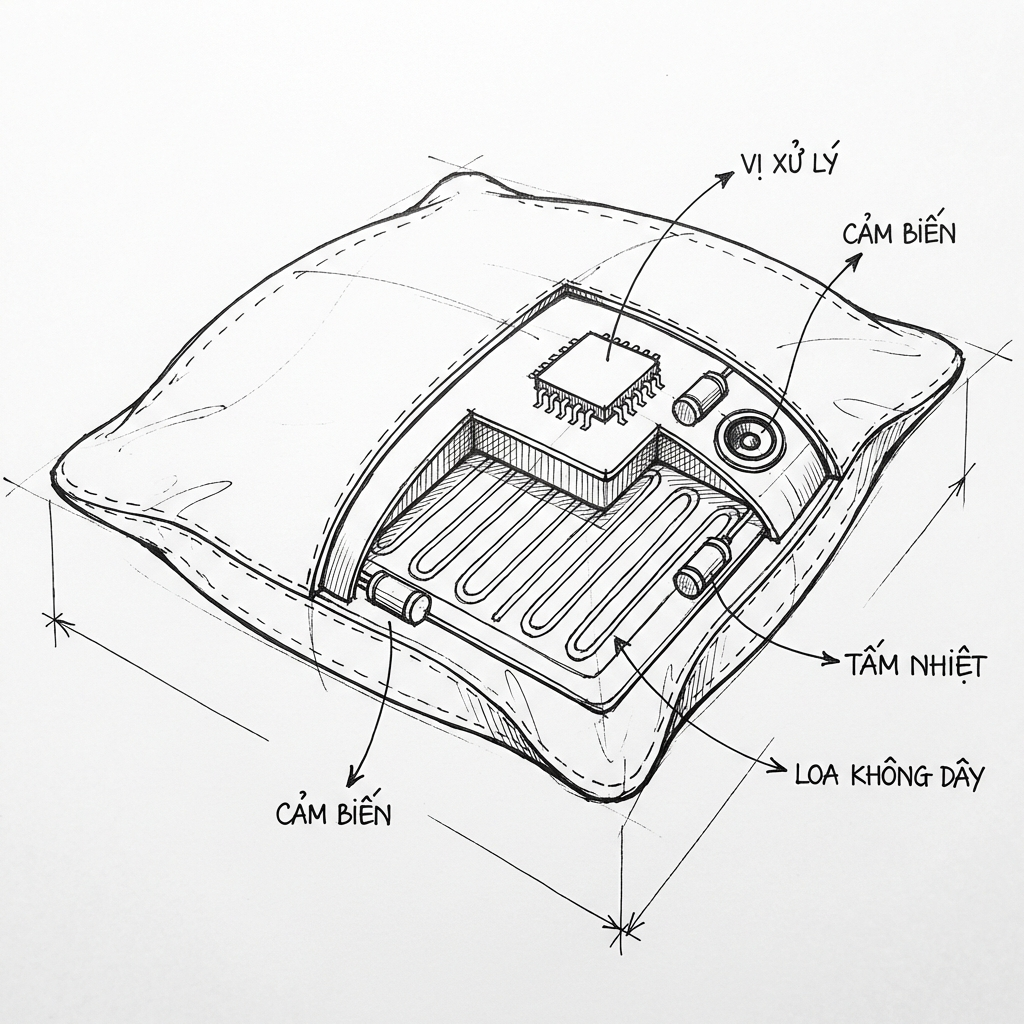
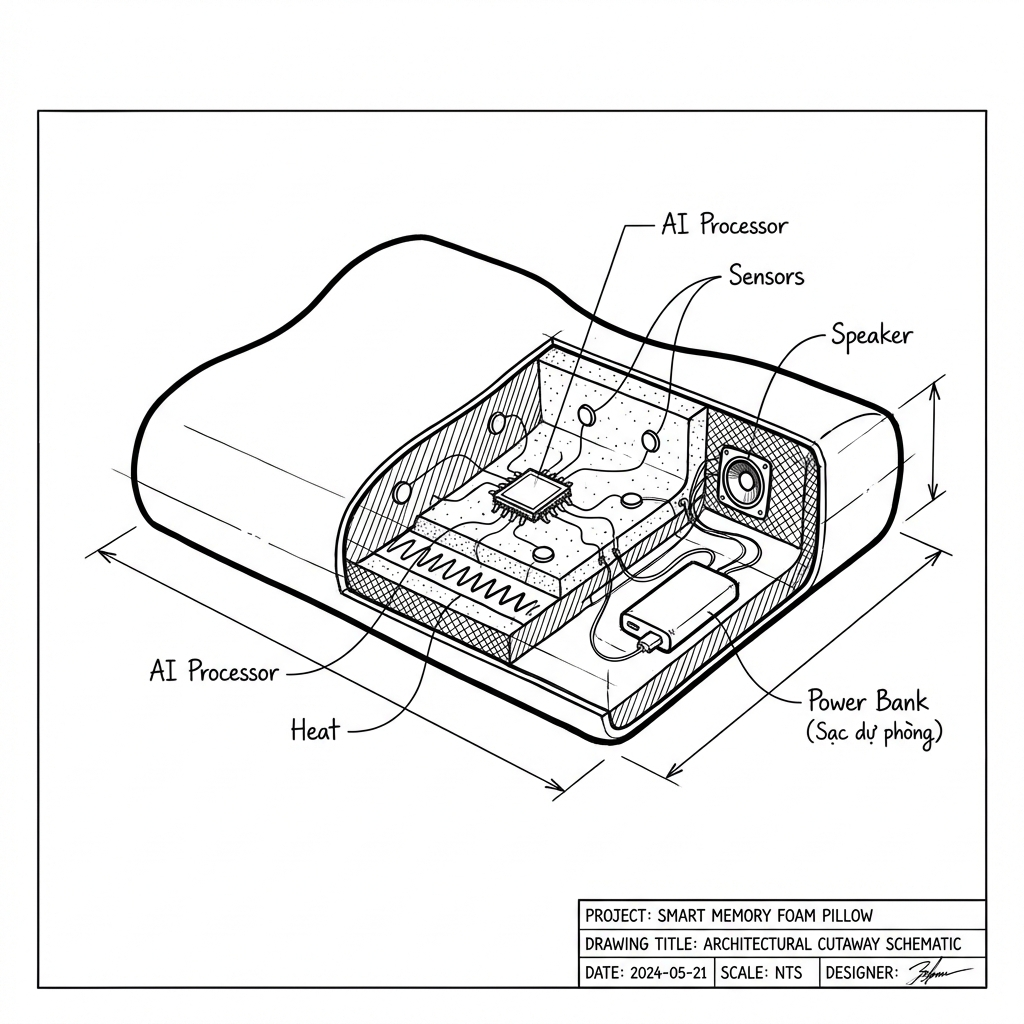
Update: Added Power Bank (Sac du phong) to schematic, bumped version to v5

diff --git a/index.html b/index.html
@@ -2349,7 +2349,7 @@
 
                 // X-RAY EFFECT: Create schematic plane inside pillow
                 const textureLoader = new THREE.TextureLoader();
-                textureLoader.load('images/pillow_schematic_vn.png?v=4', (texture) => {
+                textureLoader.load('images/pillow_schematic_vn.png?v=5', (texture) => {
                     const planeGeo = new THREE.PlaneGeometry(1.5, 1.2); // Smaller card size
                     const planeMat = new THREE.MeshBasicMaterial({
                         map: texture,
